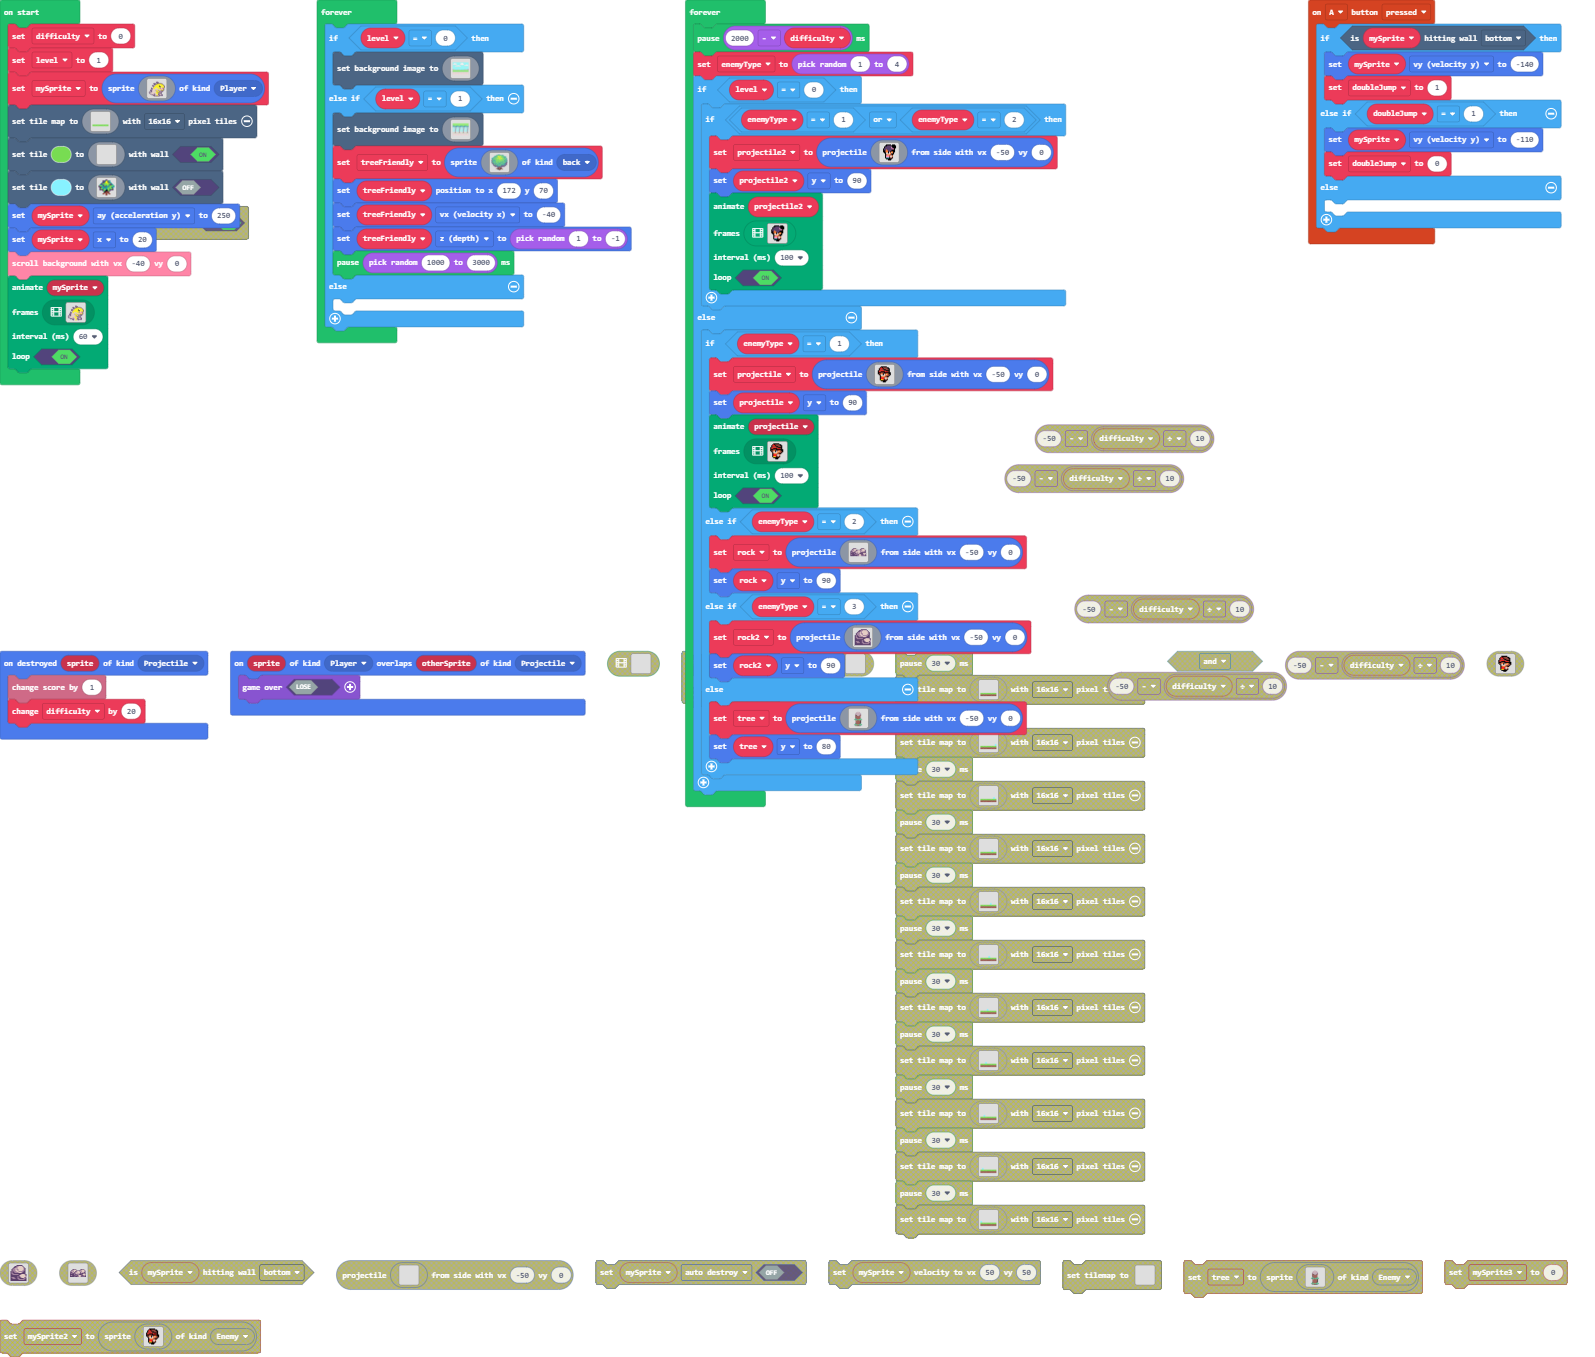
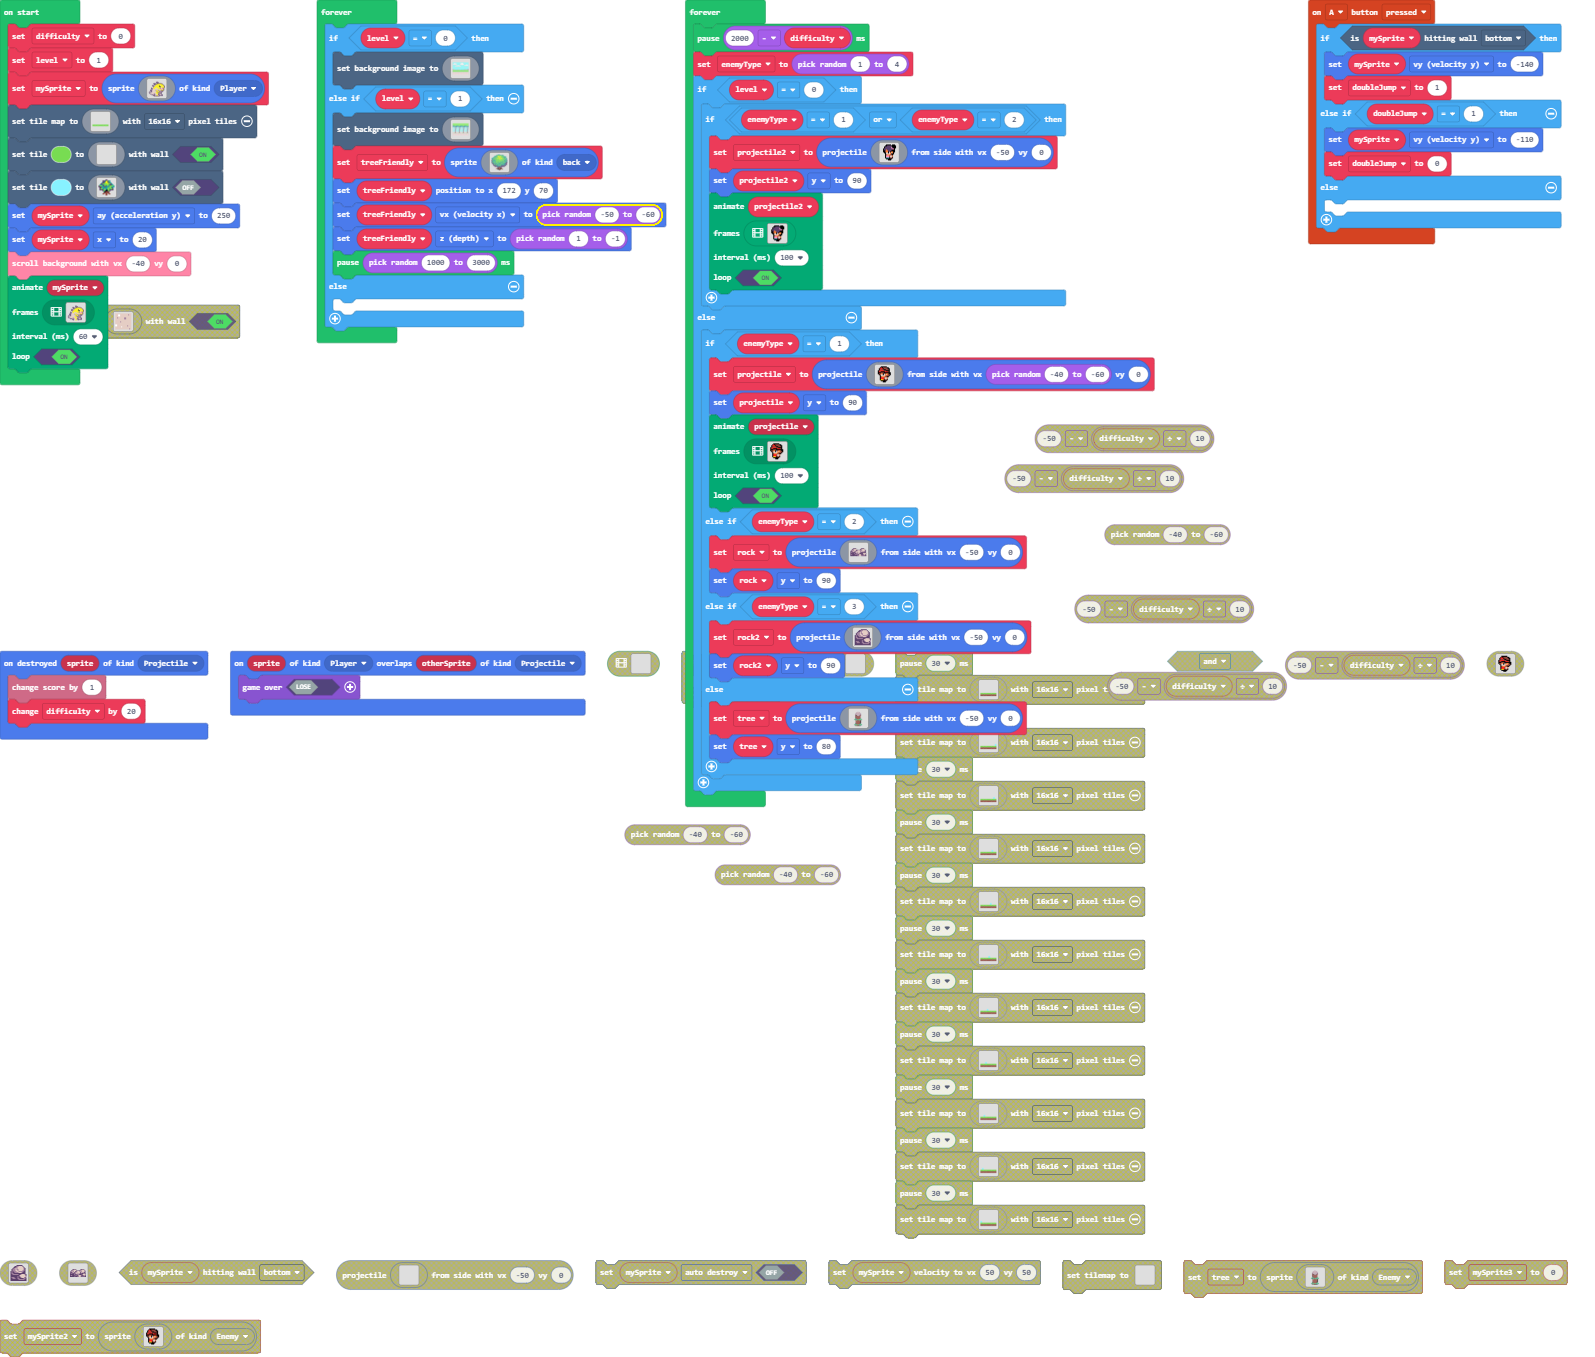
Update main.blocks, main.ts

diff --git a/main.ts b/main.ts
@@ -575,7 +575,7 @@ forever(function () {
             ................................ee..............................
             `, SpriteKind.back)
         treeFriendly.setPosition(172, 70)
-        treeFriendly.vx = -40
+        treeFriendly.vx = randint(-50, -60)
         treeFriendly.z = randint(1, -1)
         pause(randint(1000, 3000))
     } else {
@@ -683,7 +683,7 @@ forever(function () {
                 . . . f 5 5 4 f e e f . . . . . 
                 . . . . f f f f f f . . . . . . 
                 . . . . . . f f f . . . . . . . 
-                `, -50, 0)
+                `, randint(-40, -60), 0)
             projectile.y = 90
             animation.runImageAnimation(
             projectile,
